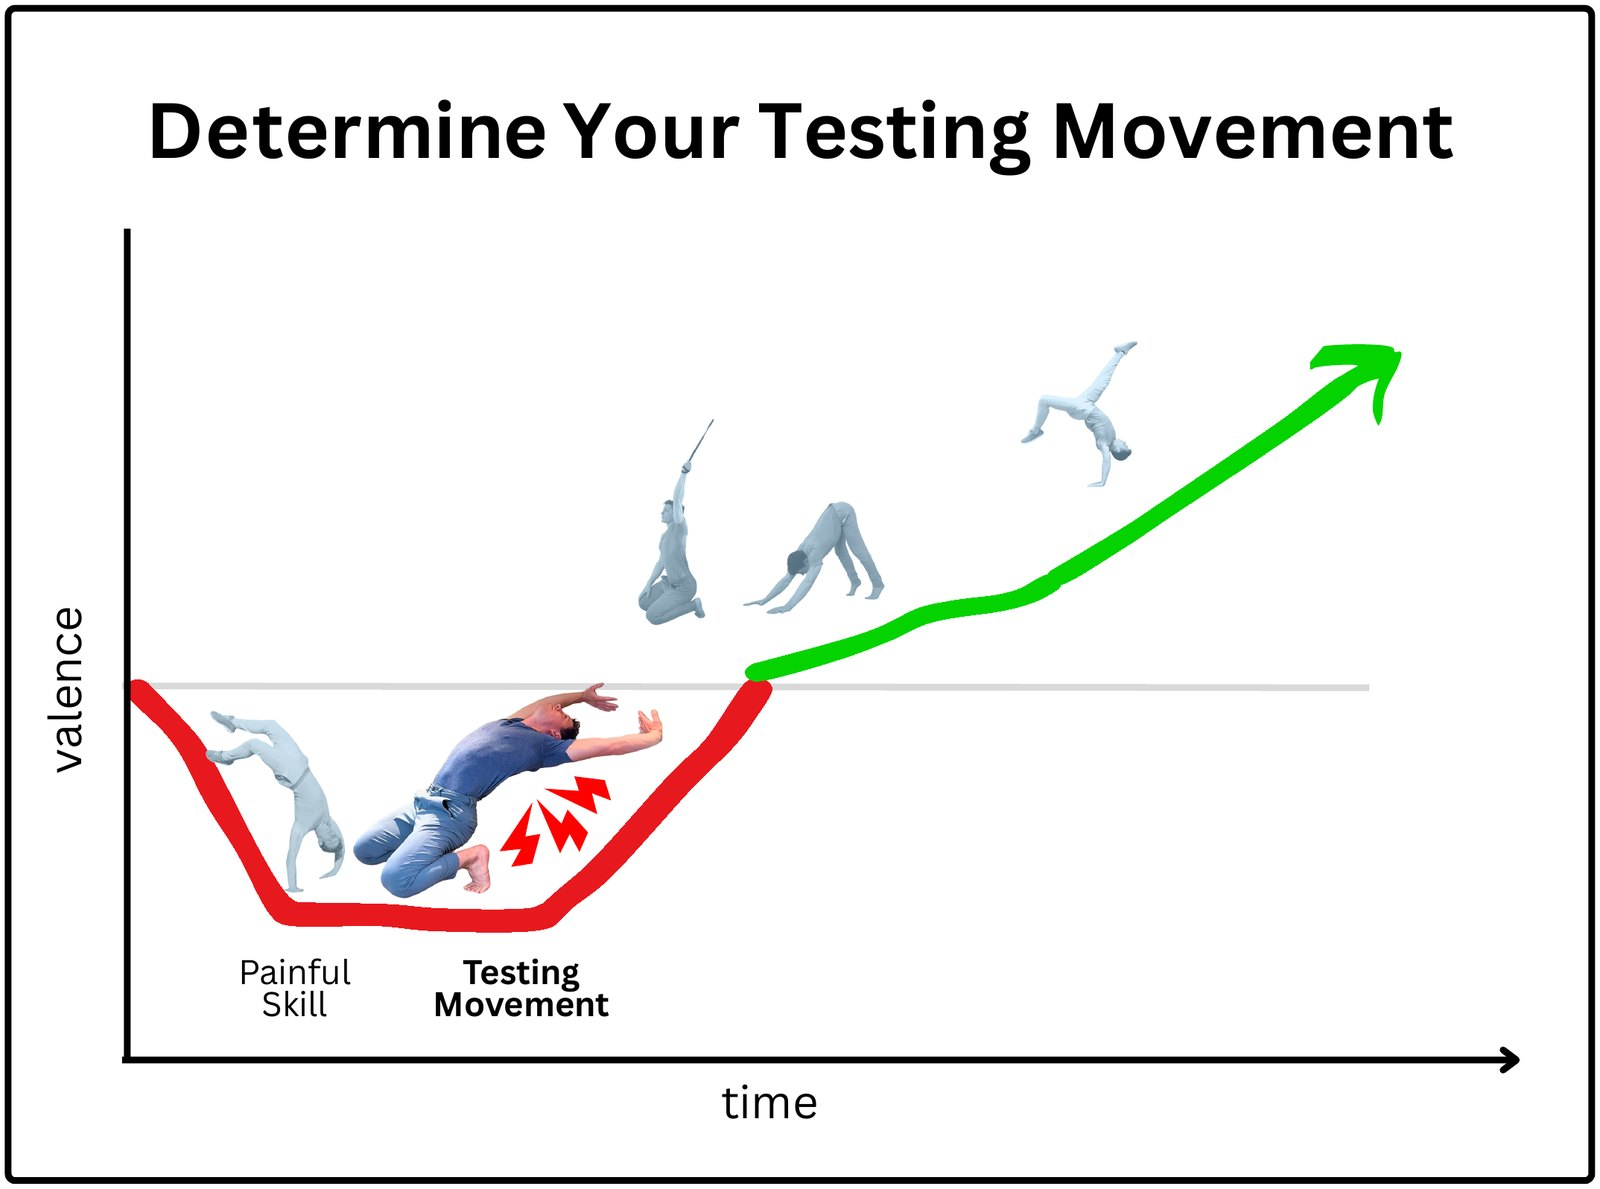
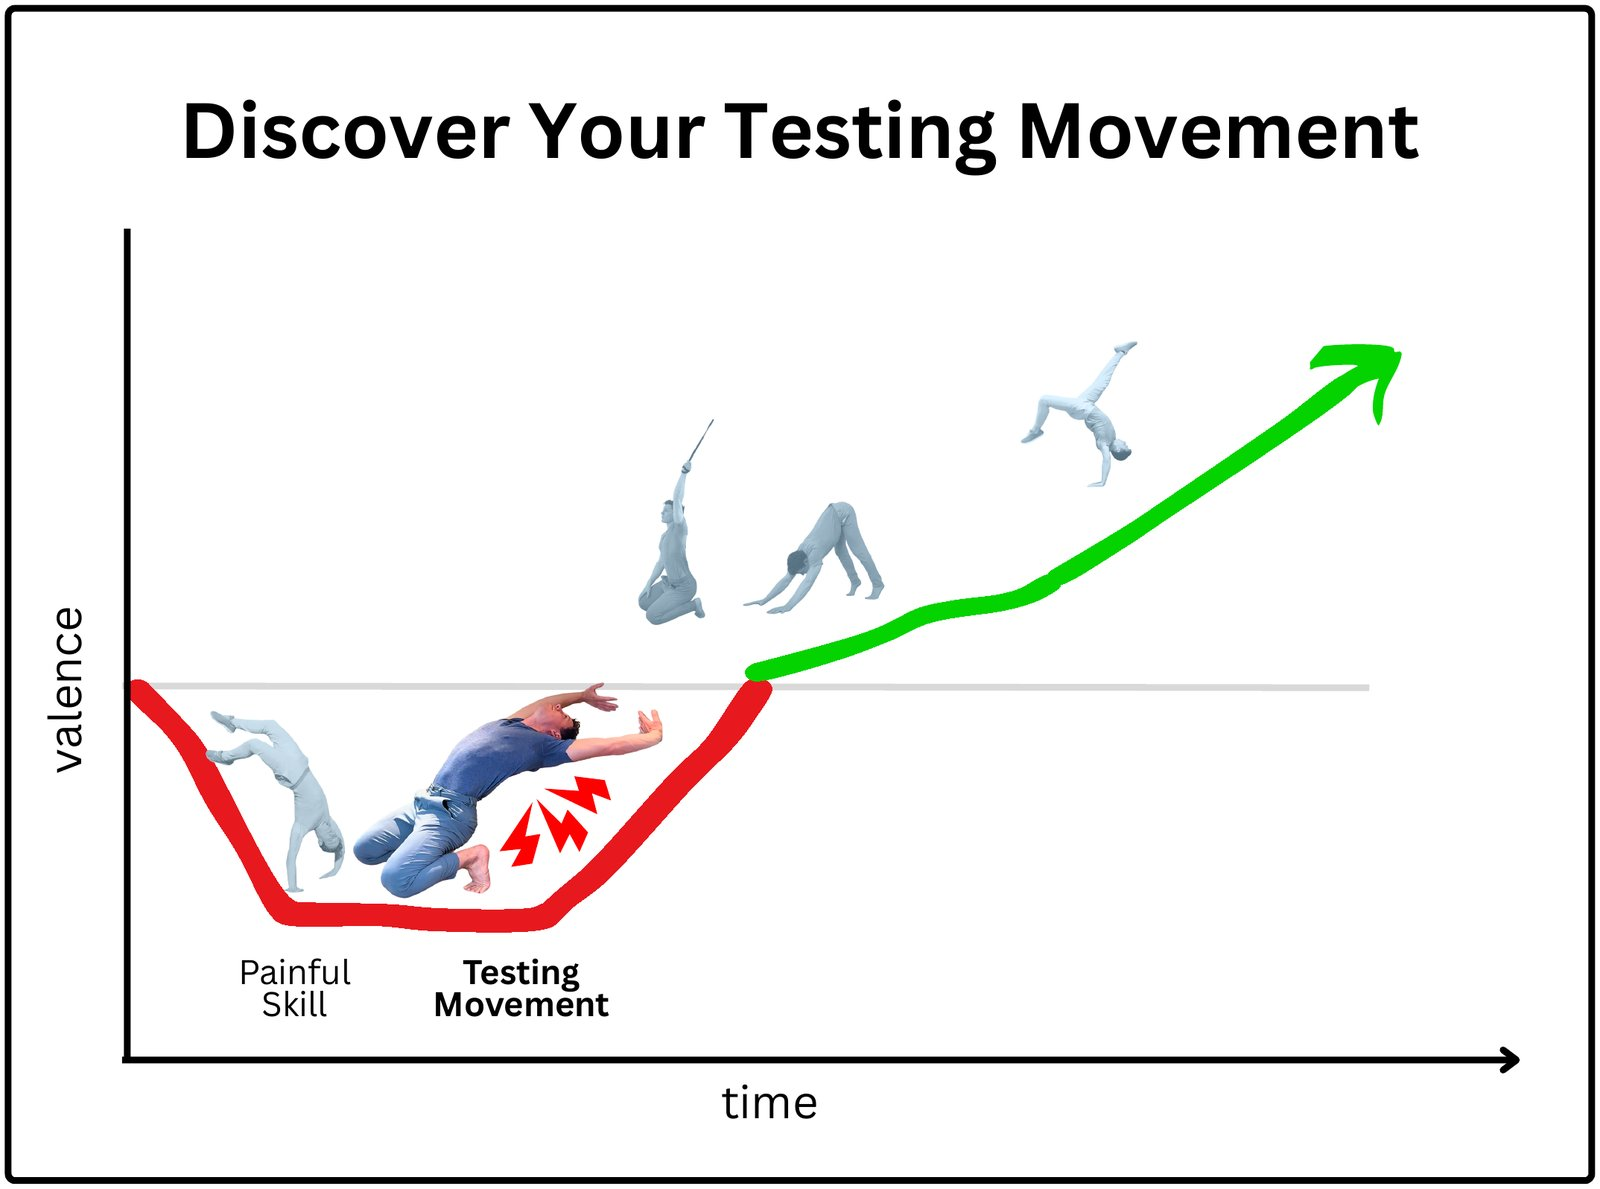
Rename step 2 back to Discover; update graphics and flag step name
Claude-Session: https://claude.ai/code/session_016TMnibwH4s6BQ4bbPosSiD

Changed region(s): [[0.0938, 0.0622, 0.9062, 0.1556]]

diff --git a/index.html b/index.html
@@ -353,7 +353,7 @@ const notifies = p => p.support==="sam" && p.origin!=="coach";
 function queueFlag(p, step){ if(!notifies(p)) return; (store.outbox=store.outbox||[]).push({client:planCode(p)||"(no name)", step, at:new Date().toISOString()}); save(true); flushFlags(); }
 let flushing=false;
 async function flushFlags(){ if(flushing||!store.outbox||!store.outbox.length||location.hostname!==FLAG_LIVE_HOST||!navigator.onLine) return; flushing=true;
-  try{ while(store.outbox.length){ const f=store.outbox[0]; const body=new URLSearchParams(); body.append(FLAG_ENTRY.client,f.client); body.append(FLAG_ENTRY.step,f.step);
+  try{ while(store.outbox.length){ const f=store.outbox[0]; const body=new URLSearchParams(); body.append(FLAG_ENTRY.client,f.client); body.append(FLAG_ENTRY.step,f.step==="Determine"?"Discover":f.step);
       await fetch(FLAG_FORM,{method:"POST",mode:"no-cors",body}); store.outbox.shift(); save(true); } }catch(e){} finally{ flushing=false; } }
 window.addEventListener("online", flushFlags);
 function checkScreenFlag(p){ if(!p||!screenResult(p).answered) return; const sig=screenSig(p); p.notified=p.notified||{}; if(sig && sig!==p.notified.screen) queueFlag(p,"Pre-ADAPT Screening"); p.notified.screen=sig; save(true); }
@@ -364,7 +364,7 @@ function screenSig(p){ const r=screenResult(p); return r.any ? [...r.yesRF.map(n
 const STEPS = [
   {k:"screen", n:"0", t:"Pre-ADAPT Screening", done:p=>p.screen.done},
   {k:"step1", n:"1", t:"Assess", done:p=>!!p.assess.skill.trim()},
-  {k:"step2", n:"2", t:"Determine", done:p=>!!p.determine.move.trim()||!!p.determine.none},
+  {k:"step2", n:"2", t:"Discover", done:p=>!!p.determine.move.trim()||!!p.determine.none},
   {k:"step3", n:"3", t:"Approach", done:p=>!!(p.approach.pfm.trim()||p.approach.cc.trim())},
   {k:"step4", n:"4", t:"Program", done:p=>!!(p.program.ov.trim()||p.program.skip)},
   {k:"step5", n:"5", t:"Track", done:p=>p.tracking}];
@@ -432,7 +432,7 @@ V.home = () => {
 function stepsList(p){
   return `<div class="steps">${STEPS.map(s=>`<button class="stepbtn" data-act="go" data-v="${s.k}" data-done="${s.done(p)}"><span class="stepnum">${s.done(p)?"&#10003;":s.n}</span><span class="t"><b>${esc(s.t)}</b><span>${esc(stepSub(p,s.k))}</span></span><span class="chev">&rsaquo;</span></button>`).join("")}</div>`;
 }
-V.steps = () => { const p=P(); return `<div class="stack"><div class="card flat"><span class="eyebrow">The 5 steps</span><h1>Assess, Determine, Approach, Program, Track</h1></div>${stepsList(p)}${p.origin==="coach"?sendPlanCard(p):""}</div>`; };
+V.steps = () => { const p=P(); return `<div class="stack"><div class="card flat"><span class="eyebrow">The 5 steps</span><h1>Assess, Discover, Approach, Program, Track</h1></div>${stepsList(p)}${p.origin==="coach"?sendPlanCard(p):""}</div>`; };
 
 function stepNav(prev,next,nextLabel){
   return `<div class="row spread">${prev?`<button class="btn plain" data-act="go" data-v="${prev}">Back</button>`:"<span></span>"}<button class="btn" data-act="go" data-v="${next}">${esc(nextLabel||"Next")}</button></div>`;
@@ -482,14 +482,14 @@ V.step1 = () => {
     <div style="display:grid;gap:6px"><b>My PSFS score for this skill</b><span class="hint muted small">Patient Specific Functional Scale. Higher score = more ability.</span>${scale("assess.psfs",a.psfs,"psfs")}</div>
     ${field("Your 11/10 “Beyond-Old-Limits” goal","assess.goal","What would let you know you expanded your movement horizons? E.g.: “I can land an aerial pain-free on the knee that currently hurts, which would mean my knee is comfortable with more load than it ever has.”",{area:true})}
   </div>
-  ${stepNav("screen","step2","Next: Determine")}</div>`;
+  ${stepNav("screen","step2","Next: Discover")}</div>`;
 };
 
 V.step2 = () => {
   const p=P(); const d=p.determine;
   return `<div class="stack">
-  <div class="card flat"><span class="eyebrow">Step 2</span><h1>Determine: Testing Movement</h1></div>
-  <img class="fig" src="img/step2.jpg" alt="Determine your Testing Movement." width="1600" height="1189">
+  <div class="card flat"><span class="eyebrow">Step 2</span><h1>Discover: Testing Movement</h1></div>
+  <img class="fig" src="img/step2.jpg" alt="Discover your Testing Movement." width="1600" height="1189">
   <div class="card"><p>The purpose of the Testing Movement is to find a reasonable way to determine where you are right now, and, in the future, whether you are progressing, plateauing, or regressing. Your ${esc(skillLabel(p).toLowerCase())} is not a good testing movement, for a number of reasons. It may not be safe to perform due to your injury, or due to pain inhibiting confident performance (ever bailed in the middle of a backflip? Not fun and potentially dangerous). It may also create or reinforce doubt about your ability to successfully perform that skill in the future. It may also be something you need to warm up for, which makes wiggle room from test to test for inconsistency and therefore unreliable results. The Testing Movement avoids all those issues.</p>
   <p class="small muted">${esc(skillLabel(p))}: <b>${esc(p.assess.skill||"not filled in yet")}</b></p></div>
   <div class="card"><h2>Crux of the issue</h2>
@@ -560,7 +560,7 @@ V.step5 = () => { const p=P(); return `<div class="stack">
   <div class="card"><p>How can you guarantee you’ll see progress, make necessary course corrections, and reach your destination? By checking your map to see if you’re moving in the right direction. That means tracking results in your workout and with your weekly retest.</p>
   <ul class="tight small"><li><b>Overload Exercise:</b> track as part of your conditioning routine, with Dose, Range, Load, and NRSoP</li>
   <li><b>Pain-Free Motion and Comfortable Contraction:</b> track daily as done ✅ or not done ❌. You don’t need to apply progressive overload; increase intuitively if it feels good</li>
-  <li><b>Weekly Testing Movement:</b> test 1x/week, with the same detail as in the Determine step</li>
+  <li><b>Weekly Testing Movement:</b> test 1x/week, with the same detail as in the Discover step</li>
   <li>Test your Painful Skill when you feel ready (you’ll know when)</li></ul>
   <p class="small">It is easy to get frustrated when we do not see results. This level of tracking avoids many of the common pitfalls that lead to frustration. If you are not actually improving, you will notice it and know why, so you can fix it. If you are improving, this style of tracking guarantees you will see it.</p></div>
   ${(()=>{ const miss=missingSteps(p); return miss.length&&!p.tracking?`<div class="msg warn"><b>Still blank</b><ul class="tight small">${miss.map(([s,l])=>`<li><button class="linkbtn" data-act="go" data-v="${s}">${l}</button></li>`).join("")}</ul><p class="small">You can start tracking anyway and fill these in later.</p></div>`:""; })()}
@@ -757,7 +757,7 @@ V.learn = () => `<div class="stack">
   <p>Everyone can find their <b>ideal</b> Testing Movement, Pain-Free Motion, Comfortable Contraction, and Overload Exercise. But finding them can take time. Your first guess for your Pain-Free Motion might fail. You may think “There is nothing I can do right now. My back just hurts when I extend it, period,” and feel defeated.</p>
   <p>Or you could stay curious, explore lying on your back, hands folded behind your lumbar spine, take a deep breath, and finally feel a big wave of release wash over you as the pain subsides for the first time in days. Resilience is a skill. So is getting to know your body and your injuries. Skills take practice, work, and time to develop, but these skills are likely the most important for your overall movement career.</p>
   <p>As you explore, you may need to modify your Pain-Free Motion. Your Comfortable Contraction might need repeated positional adjustments. Your Overload exercise may need to be changed. You don’t need to know the exact architecture and anatomy of your body, but you need to stay curious and keep track of your progress. Slow or non-existent? Then try turning your foot 15 degrees outwards. Or pull your arm more in towards your midline. Or bend the arm a little less during the chin-up hold.</p>
-  <p>Don’t expect every step will be in the right direction, but expect that you will arrive as long as you continue to Assess, Determine, Approach, Program, Track.</p></div></details>
+  <p>Don’t expect every step will be in the right direction, but expect that you will arrive as long as you continue to Assess, Discover, Approach, Program, Track.</p></div></details>
   ${legal()}
   </div>`;
 
@@ -858,7 +858,7 @@ document.addEventListener("click", async e=>{
     case "rm": { const k=a.dataset.list+":"+a.dataset.i; if(armed===k){ p.logs[a.dataset.list].splice(Number(a.dataset.i),1); armed=null; save(true); } else armed=k; const y=window.scrollY; render(); window.scrollTo(0,y); break; }
     case "settrend": { tmp.trend = tmp.trend===v?null:v; const y=window.scrollY; rerenderKeepInputs(); window.scrollTo(0,y); break; }
     case "pickday": { selDay = v===today()?null:v; const y=window.scrollY; render(); window.scrollTo(0,y); break; }
-    case "no-tm": { p.determine.none=!p.determine.none; p.notified=p.notified||{}; if(p.determine.none && !p.notified.determine){ p.notified.determine=true; queueFlag(p,"Determine"); } save(true); const y=window.scrollY; render(); window.scrollTo(0,y); break; }
+    case "no-tm": { p.determine.none=!p.determine.none; p.notified=p.notified||{}; if(p.determine.none && !p.notified.determine){ p.notified.determine=true; queueFlag(p,"Discover"); } save(true); const y=window.scrollY; render(); window.scrollTo(0,y); break; }
     case "share": case "copy-sum": case "copy-link": {
       const text=summaryText(p); const data=JSON.parse(JSON.stringify(p)); delete data._draft; data._sent=today();
       const link=baseURL()+"#c="+await pack(data);

diff --git a/sw.js b/sw.js
@@ -1,5 +1,5 @@
 // ADAPT offline cache. Bump VERSION on every release so phones pick up the new files.
-const VERSION = "adapt-v24";
+const VERSION = "adapt-v25";
 const CORE = ["./", "index.html", "manifest.webmanifest", "icon-192.png", "icon-512.png",
   "img/journey.jpg","img/five-movements.jpg","img/continuum.jpg","img/before-after.jpg",
   "img/step1.jpg","img/step2.jpg","img/step3.jpg","img/step4.jpg","img/step5.jpg",
